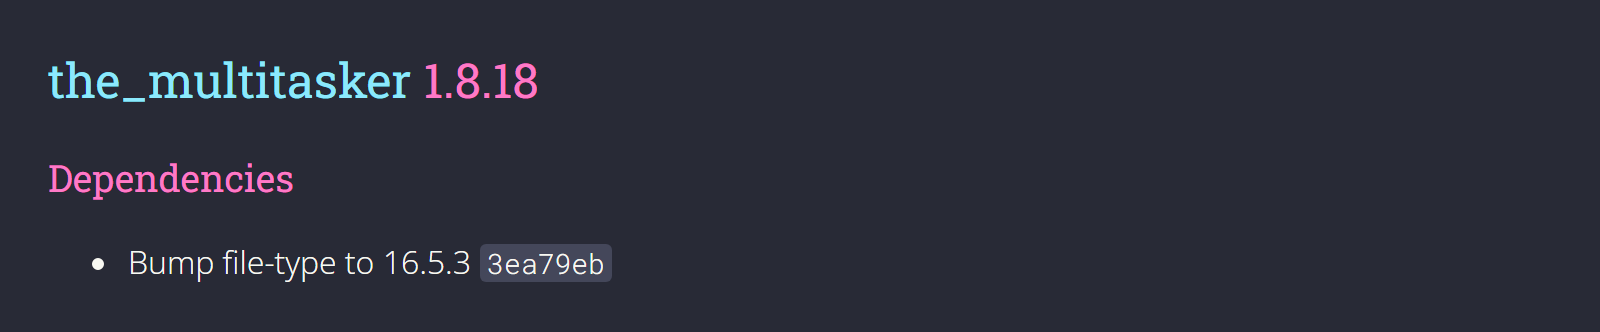
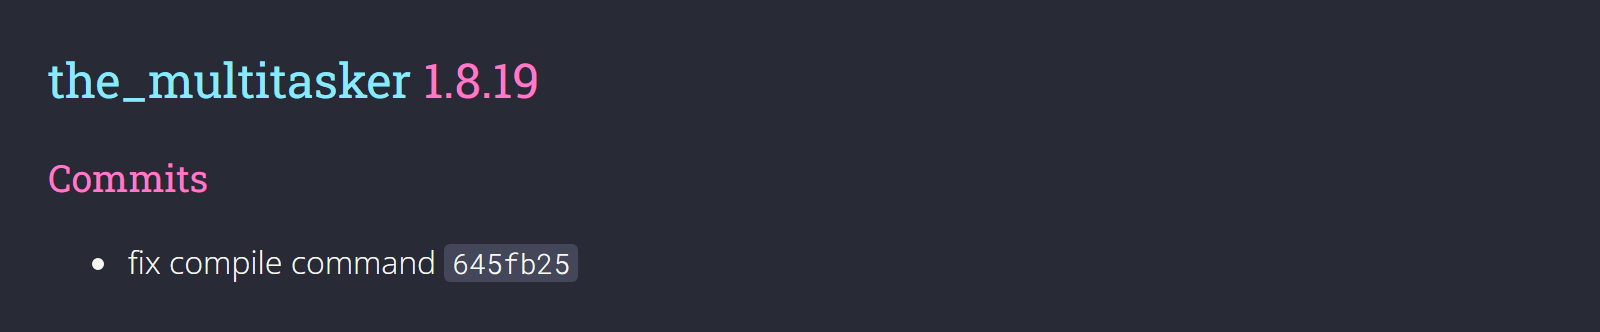
Release 1.8.19

Changed region(s): [[0.0625, 0.7229, 0.4062, 0.8735], [0.0312, 0.4819, 0.1875, 0.6024], [0.3125, 0.2108, 0.3438, 0.3012]]

diff --git a/CHANGELOG.md b/CHANGELOG.md
@@ -7,11 +7,24 @@ and this project adheres to [Semantic Versioning](https://semver.org/spec/v2.0.0
 
 Generated by [`auto-changelog`](https://github.com/CookPete/auto-changelog).
 
-## [1.8.18](https://github.com/eyalmichon/TheMultitasker/compare/1.8.17...1.8.18)
+## [1.8.19](https://github.com/eyalmichon/TheMultitasker/compare/1.8.18...1.8.19)
 
 
 
 
+### Commits
+
+- fix compile command [`645fb25`](https://github.com/eyalmichon/TheMultitasker/commit/645fb25499124e4b11c0b59fa18850557ec08198)
+
+
+## [1.8.18](https://github.com/eyalmichon/TheMultitasker/compare/1.8.17...1.8.18) - 2023-01-05
+
+
+
+
+### Commits
+
+- Release 1.8.18 [`54d07d5`](https://github.com/eyalmichon/TheMultitasker/commit/54d07d587e3e766295936c0450111379e4ab1f1a)
 
 ### Dependencies
 
